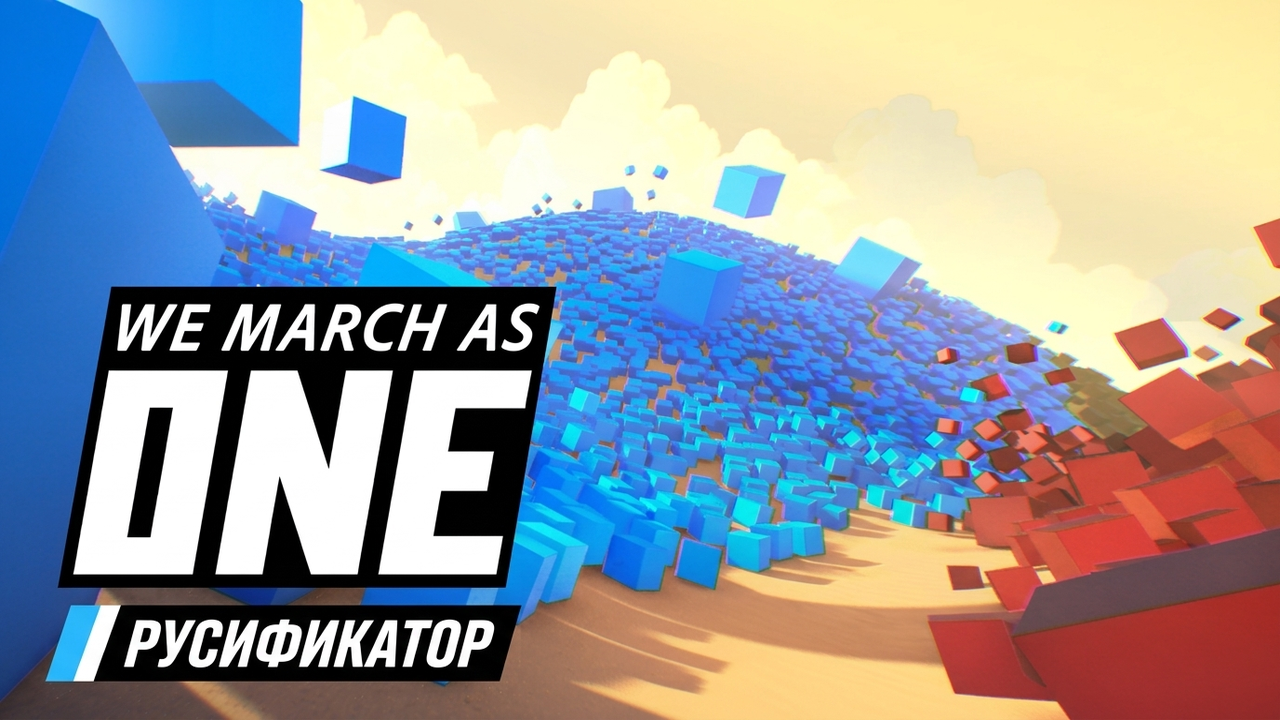
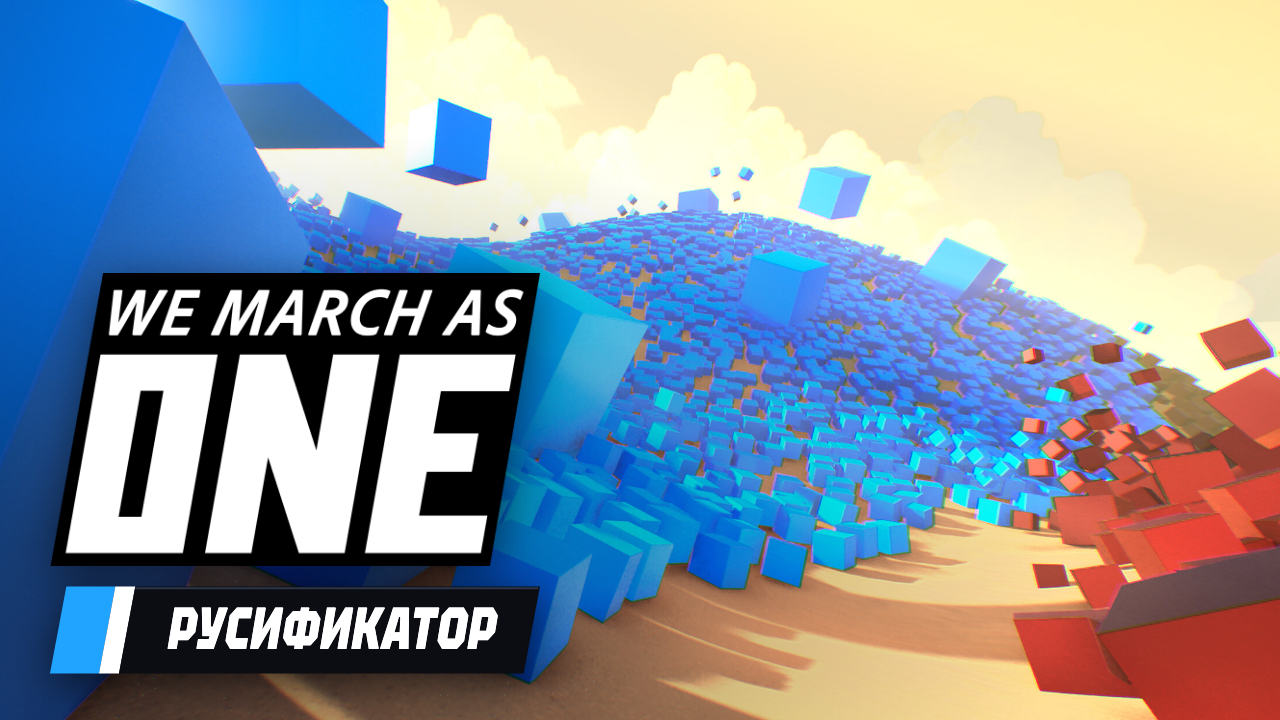
docs: polish README copy and refresh release visuals

diff --git a/README.md b/README.md
@@ -7,7 +7,7 @@
 - **Вариант 1 (Рекомендуется) - [Полное издание «2-в-1» на Boosty](https://boosty.to/cd_tixo/posts/73fae114-79d9-4305-99cc-8d8af1d157ce?utm_source=github&utm_medium=readme&utm_campaign=we_march_as_one):** единый установщик с выбором модулей (русификатор текста, 5 шрифтов и экрана 30 достижений + дополнительное внутриигровое мод-меню и настройка баланса для кампании) и обновления под патчи.
 - **Вариант 2 - [Базовый русификатор v1.2 на GitHub Releases](https://github.com/neoru-droid/we-march-as-one-ru/releases/tag/v1.2.0):** только перевод текста, шрифтов и экрана достижений · [Как установить](#установка) · [Руководство в Steam](https://steamcommunity.com/sharedfiles/filedetails/?id=3840161059)
 
-Проверено на сборке Steam `26651298` для **Windows** и **Steam Deck / Linux**. Достижения Steam продолжают открываться как обычно, а кнопка удаления в любой момент возвращает чистые оригинальные файлы игры.
+Проверено на сборке Steam `26651298` для **Windows** и **Steam Deck / Linux**. Достижения Steam продолжают открываться, а кнопка удаления в любой момент возвращает оригинальные файлы игры.
 
 ![We March as One · Русификатор](docs/screenshots/cover_wide.png)
 
@@ -57,7 +57,7 @@
 - **[Каталог релизов на Boosty](https://boosty.to/cd_tixo/posts/2a55d7e9-0f53-4d93-9f66-280981158dec?utm_source=github&utm_medium=readme&utm_campaign=we_march_as_one)**
 - **[Каталог всех игр с поиском](https://neoru-droid.github.io/)**
 
-Перевод сделан с помощью нейросети и проверен в игре. Найдёте опечатку или косяк - пишите в [Issues](https://github.com/neoru-droid/we-march-as-one-ru/issues), поправлю.
+Перевод сделан нейросетью и проверен в игре. Найдёте опечатку или косяк - пишите в [Issues](https://github.com/neoru-droid/we-march-as-one-ru/issues), поправлю.
 
 ## Другие переводы
 - [Playrooms](https://github.com/neoru-droid/playrooms-ru)
